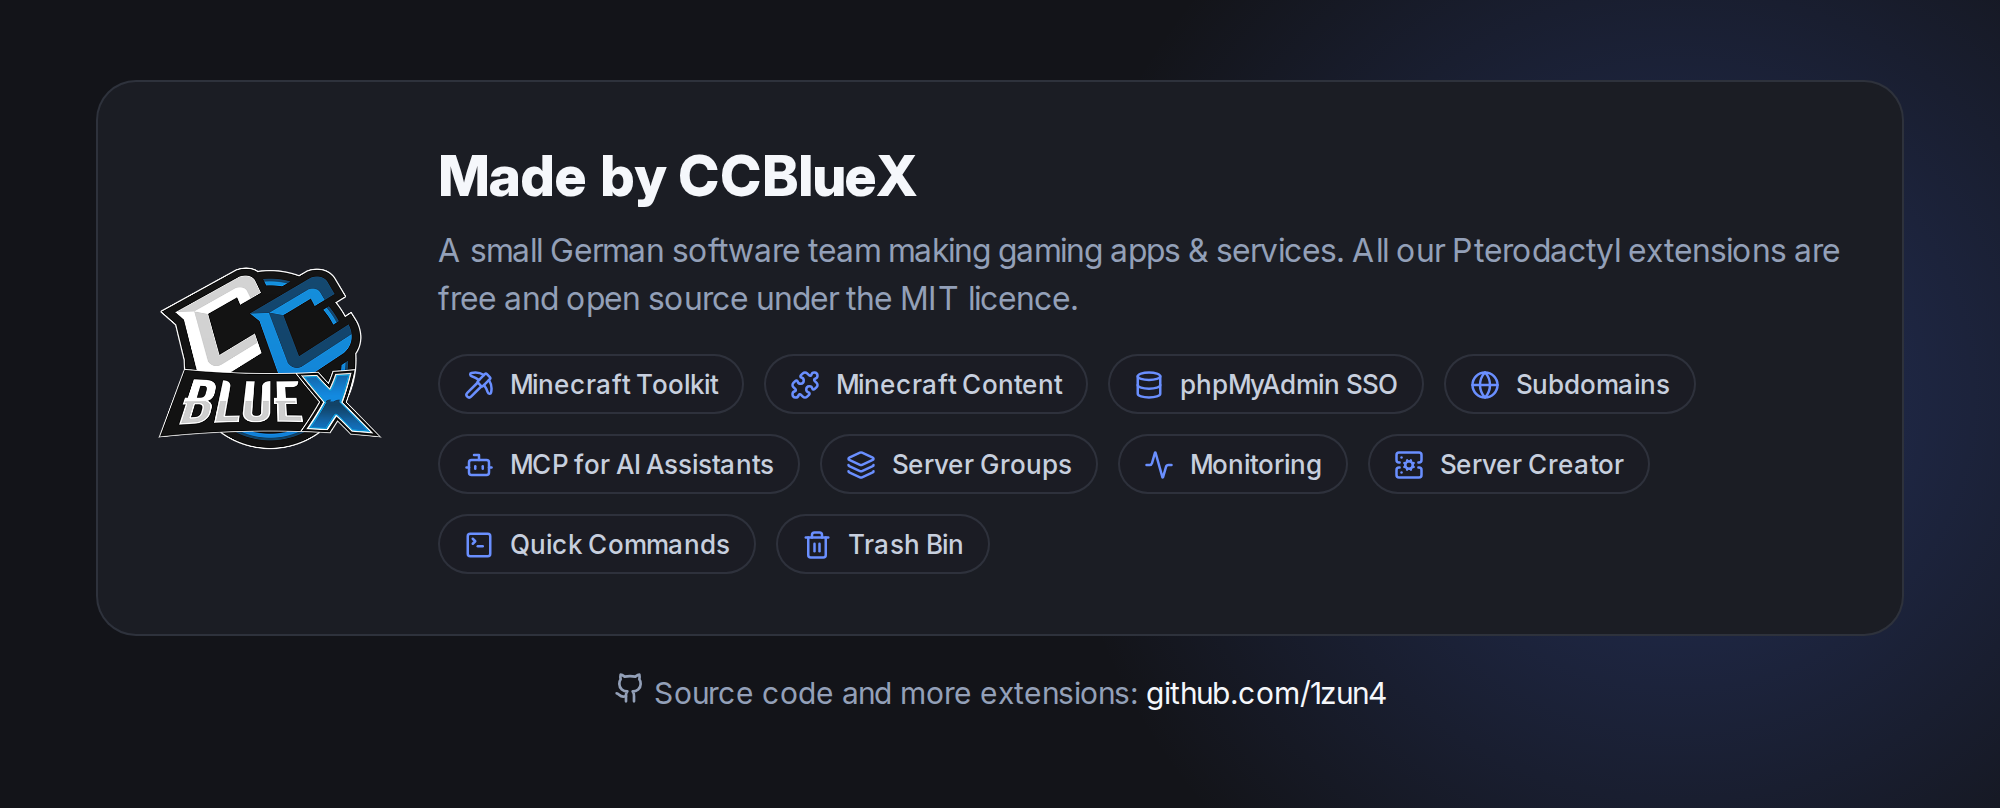
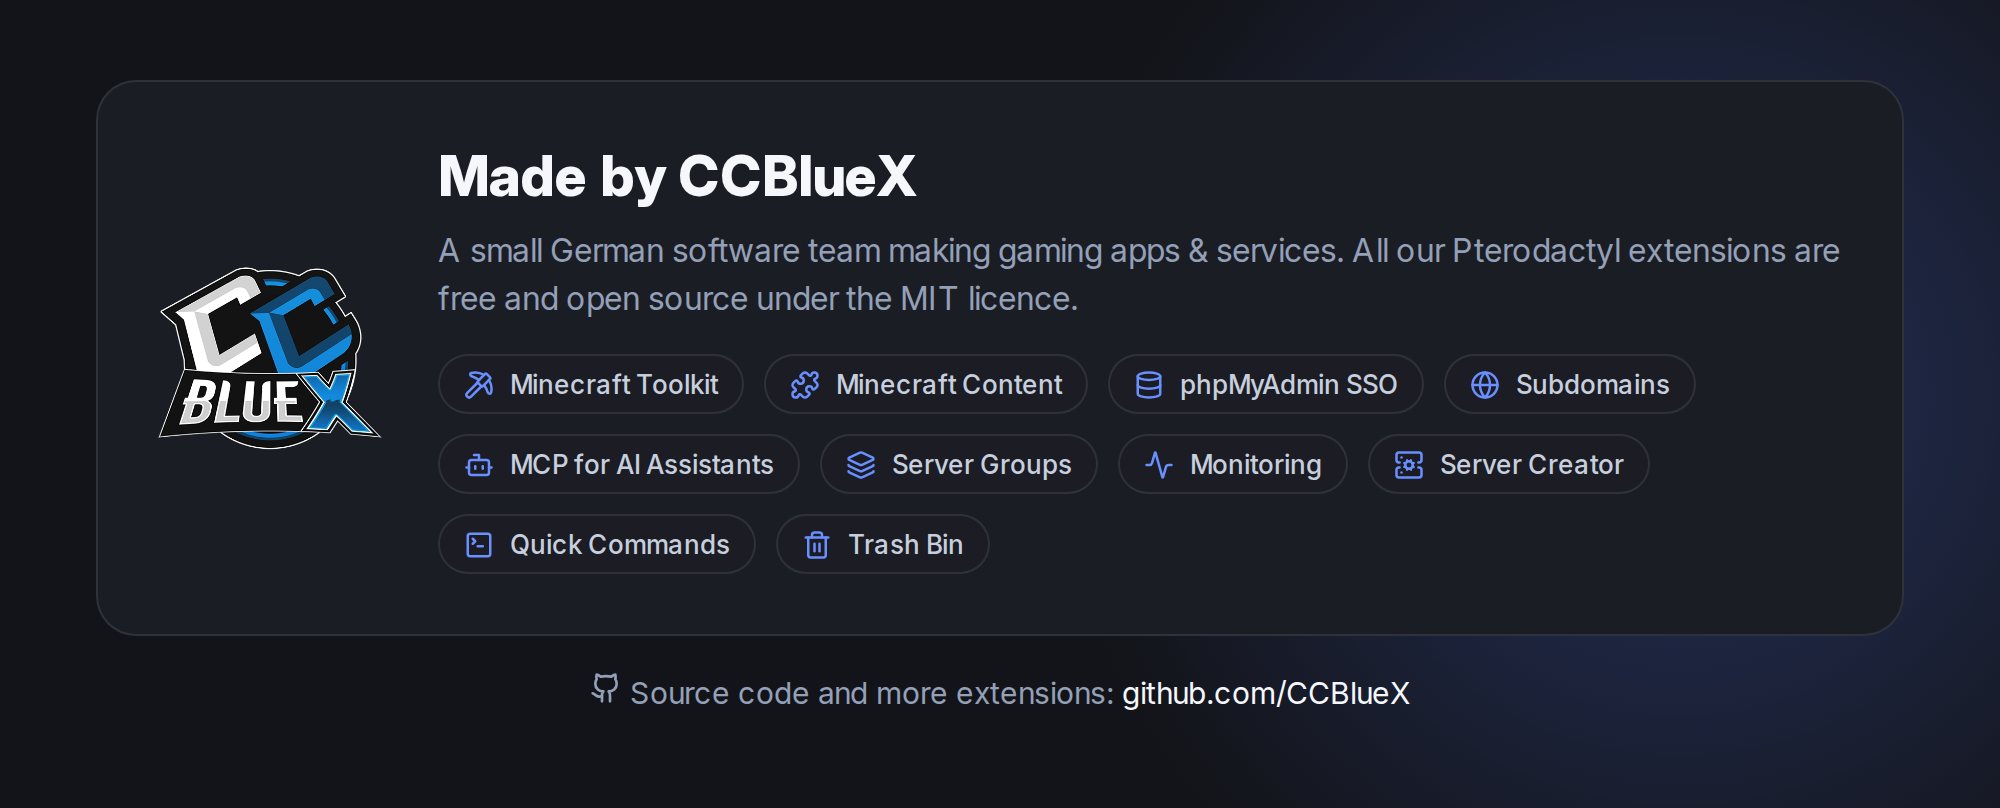
docs: move to ccbluex and hide node hostnames

Changed region(s): [[0.279, 0.8354, 0.713, 0.8973]]

diff --git a/README.md b/README.md
@@ -1,9 +1,9 @@
 # Egg Changer for Pterodactyl
 
-[![Release](https://img.shields.io/github/v/release/1zun4/Pterodactyl-Extension-Egg-Changer?style=flat-square)](https://github.com/1zun4/Pterodactyl-Extension-Egg-Changer/releases/latest)
-[![Downloads](https://img.shields.io/github/downloads/1zun4/Pterodactyl-Extension-Egg-Changer/total?style=flat-square)](https://github.com/1zun4/Pterodactyl-Extension-Egg-Changer/releases)
+[![Release](https://img.shields.io/github/v/release/CCBlueX/Pterodactyl-Extension-Egg-Changer?style=flat-square)](https://github.com/CCBlueX/Pterodactyl-Extension-Egg-Changer/releases/latest)
+[![Downloads](https://img.shields.io/github/downloads/CCBlueX/Pterodactyl-Extension-Egg-Changer/total?style=flat-square)](https://github.com/CCBlueX/Pterodactyl-Extension-Egg-Changer/releases)
 [![Pterodactyl](https://img.shields.io/badge/Pterodactyl-2.0-0e4688?style=flat-square)](https://pterodactyl.io)
-[![License](https://img.shields.io/github/license/1zun4/Pterodactyl-Extension-Egg-Changer?style=flat-square)](LICENSE)
+[![License](https://img.shields.io/github/license/CCBlueX/Pterodactyl-Extension-Egg-Changer?style=flat-square)](LICENSE)
 
 Let users switch their server to another egg you allow, right from the Startup page.
 
@@ -11,7 +11,7 @@ Let users switch their server to another egg you allow, right from the Startup p
 
 ## Install
 
-1. Download `egg-changer-<version>.pteroext` from the [latest release](https://github.com/1zun4/Pterodactyl-Extension-Egg-Changer/releases/latest).
+1. Download `egg-changer-<version>.pteroext` from the [latest release](https://github.com/CCBlueX/Pterodactyl-Extension-Egg-Changer/releases/latest).
 2. Open **Admin → Extensions**, click **Install** and pick the file.
 3. Enable it, then create a group under **Admin → Egg Changer**.
 
